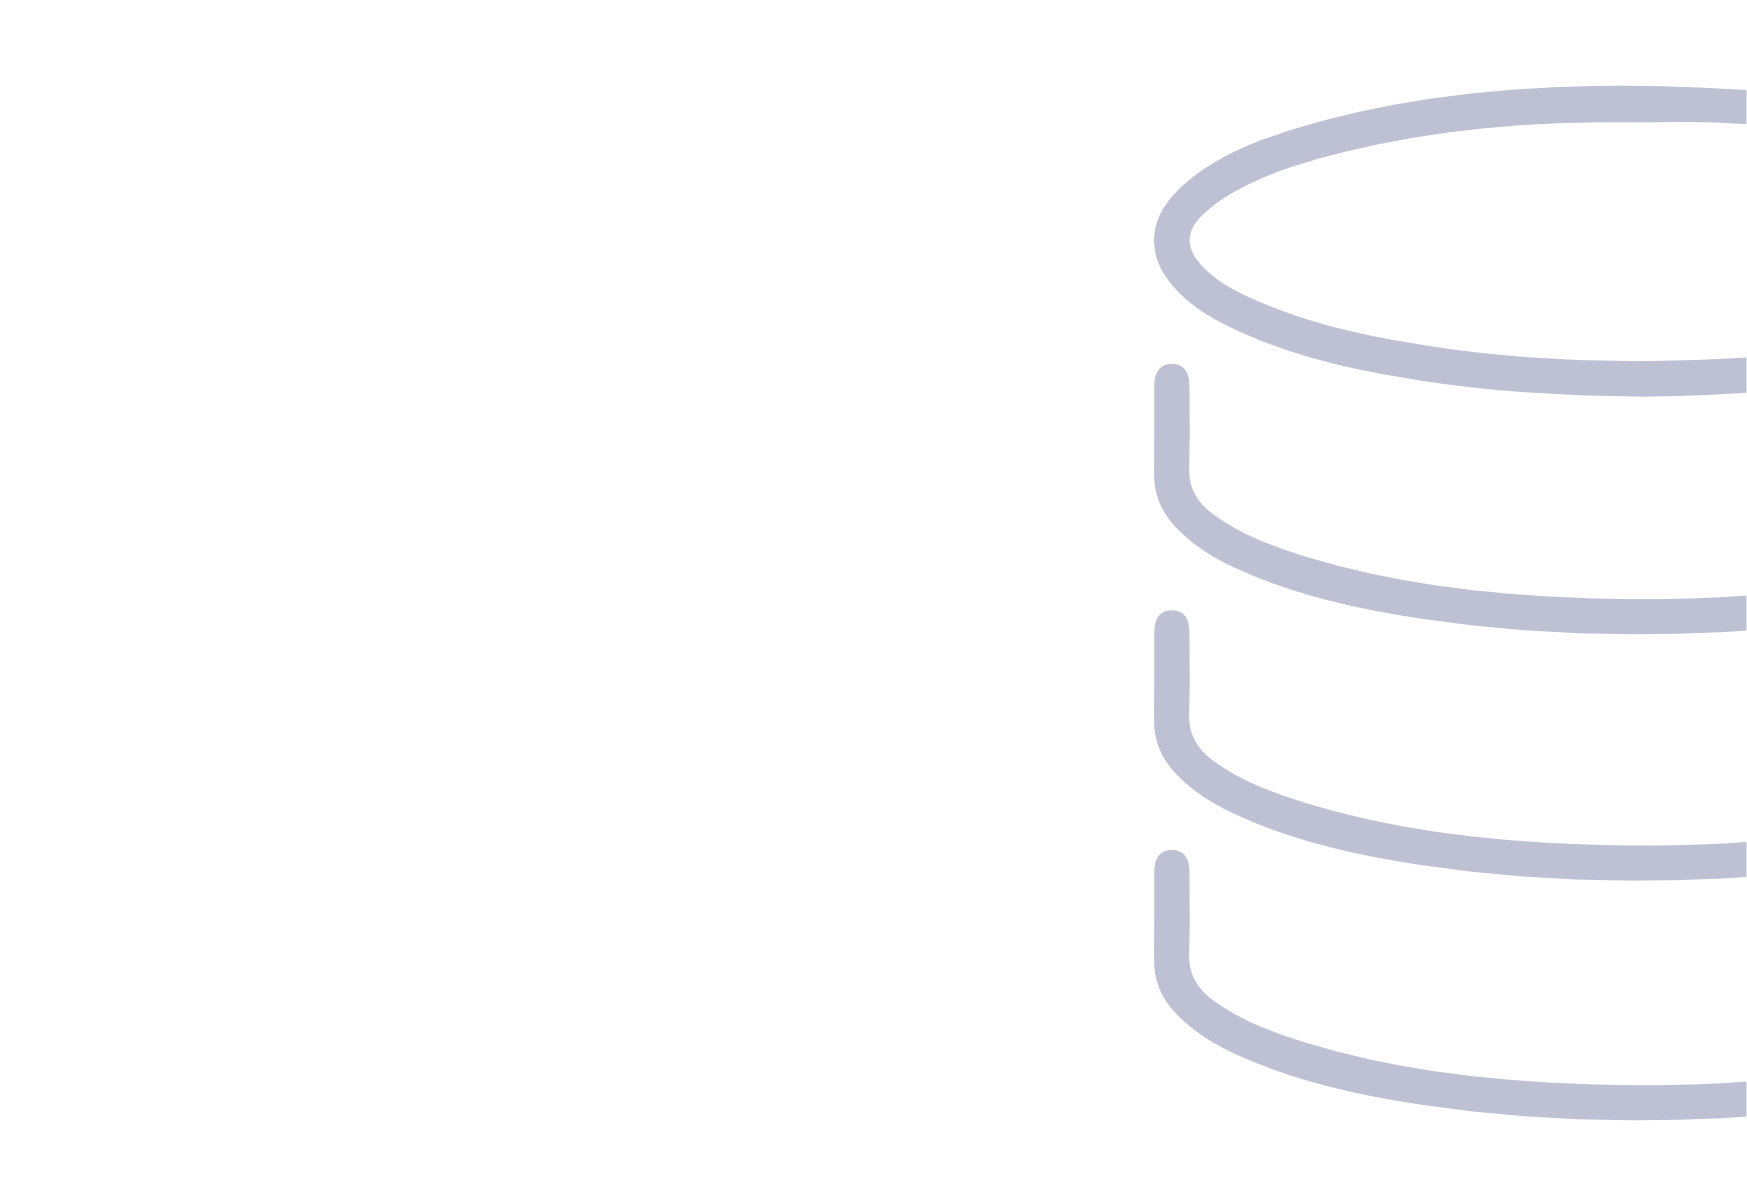
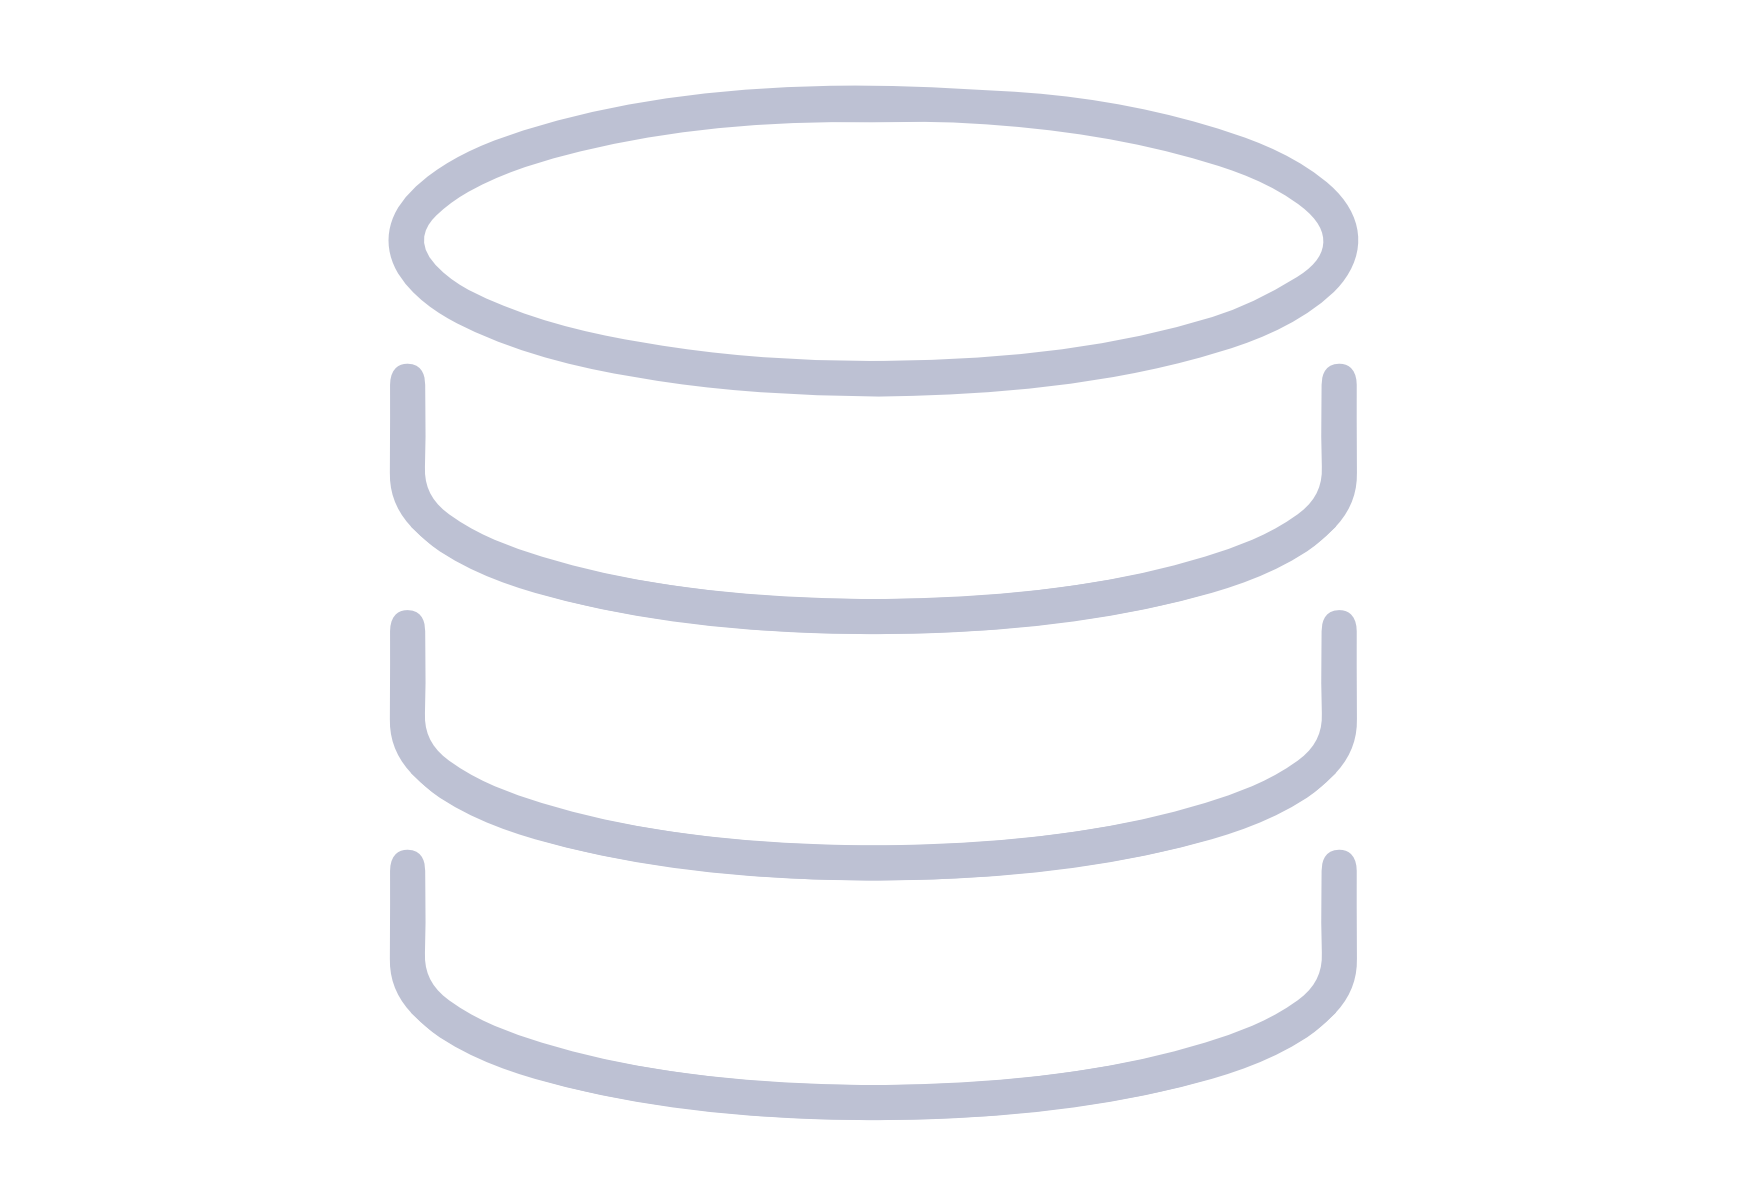
Updated thumbnail images to fit container in subpages

Changed region(s): [[0.2164, 0.0611, 1.0, 0.9779]]

diff --git a/technologies-pages/technologies-iot.html b/technologies-pages/technologies-iot.html
@@ -35,10 +35,11 @@
                     notre expertise en Internet des Objets.</p>
                 <!-- <button class="cta-button">En savoir plus</button> -->
             </div>
-            <div class="hero-image">
+            <div class="hero-image image-cover">
                 <img src="/assets/images/hexa-iot.png" alt="Hexagone présentation IoT" class="front-image image-contain"
-                    data-aos="fade-left" data-aos-delay="300">
-                <img src="/assets/images/thumbnail-iot.png" alt="Digital Twins Mockup" class="background-image image-cover">
+                    data-aos="fade-left" data-aos-delay="400">
+                <img src="/assets/images/thumbnail-iot.png" alt="Digital Twins Mockup"
+                    class="background-image image-contain">
             </div>
         </div>
     </section>

diff --git a/assets/css/purestyle.css b/assets/css/purestyle.css
@@ -170,21 +170,16 @@ a:visited {
     padding: 2rem;
 }
 
-.hero-image {
-    position: relative;
-}
-
-.hero-image .front-image {
+.front-image {
     width: 100%;
     max-width: 500px;
     height: 100%;
     max-height: auto;
     position: relative;
     z-index: 2;
-    transform: translate(100px, 0);
 }
 
-.hero-image .background-image {
+.background-image {
     width: 100%;
     height: 100%;
     max-height: auto;
